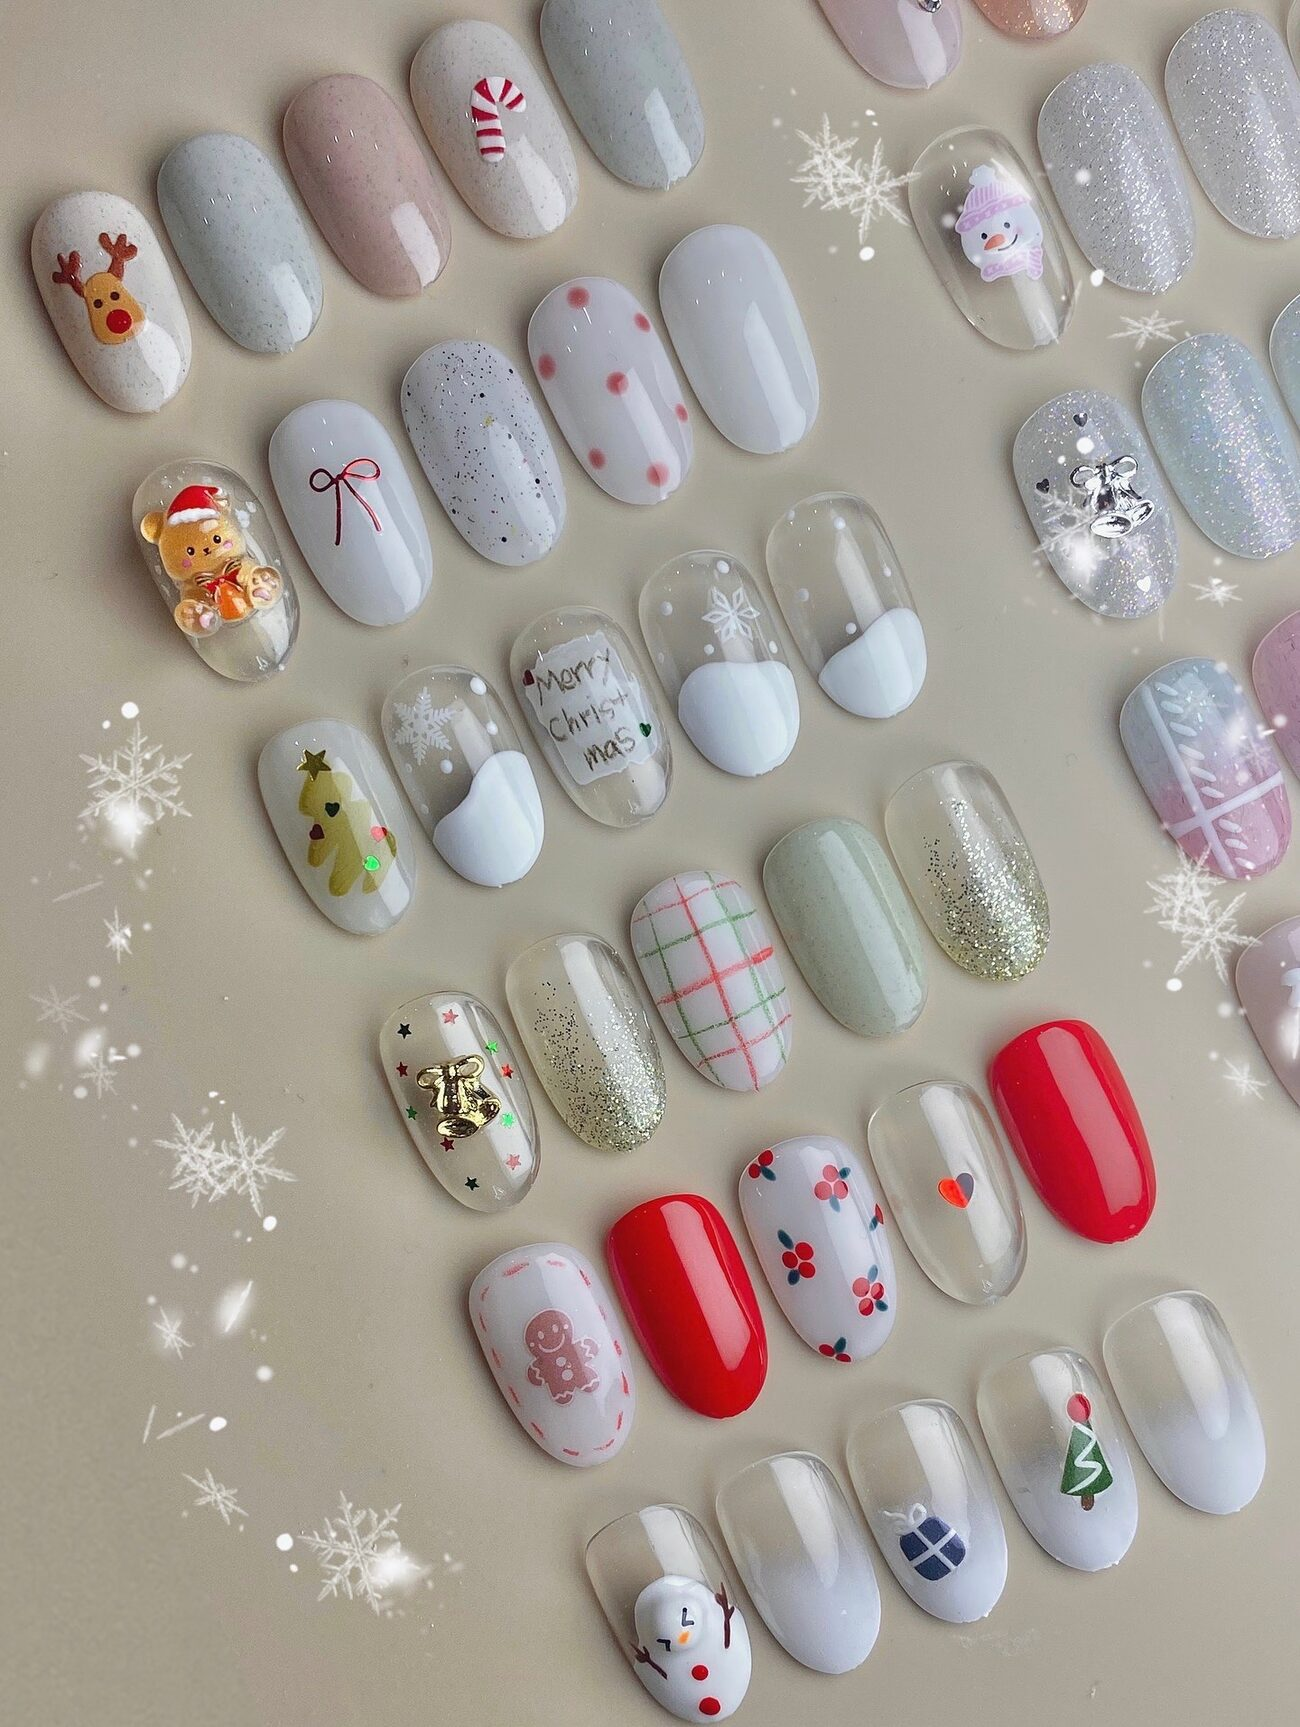
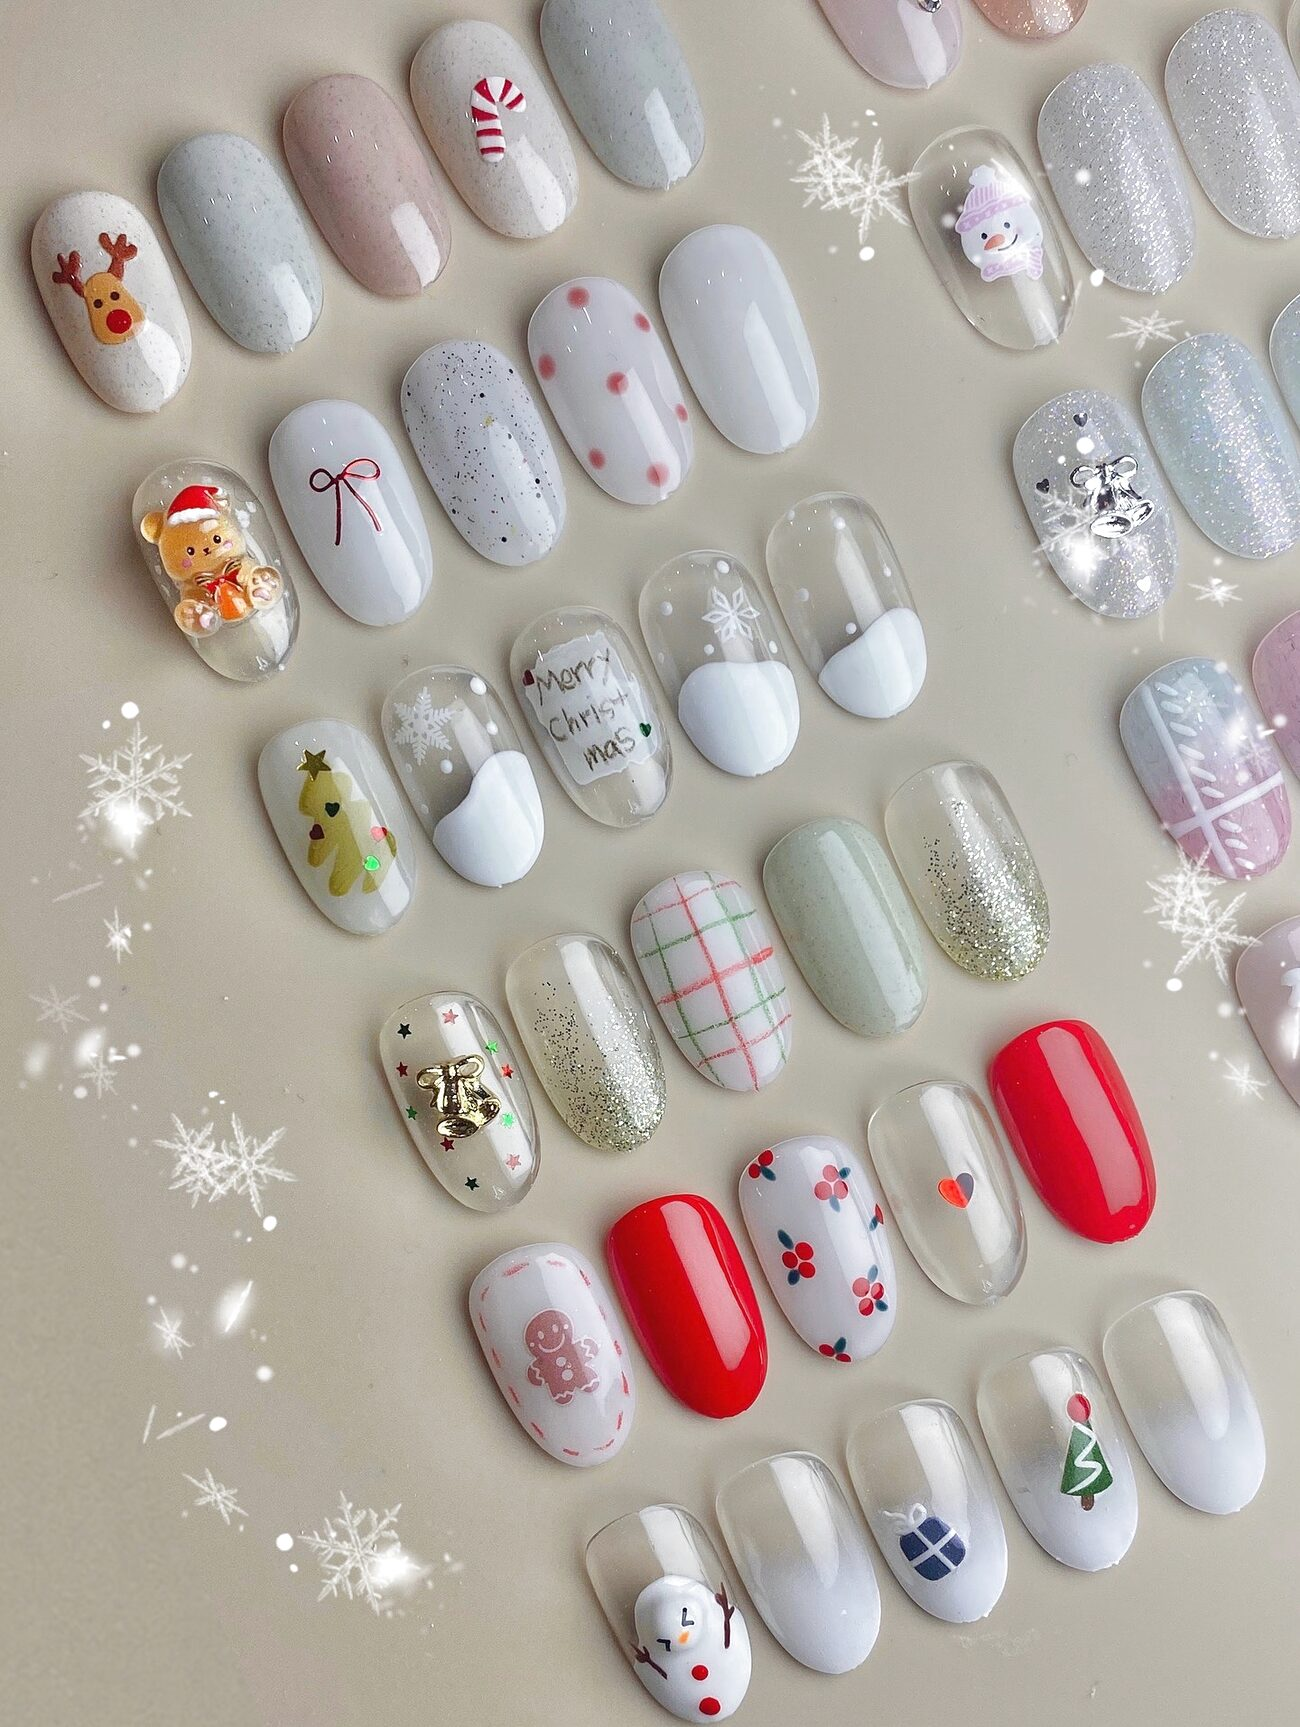
feat: 후기 섹션(네이버 리뷰 3건) 신설 + 아카이브 이미지 밝기 개선(opacity 제거+modulate)

diff --git a/index.html b/index.html
@@ -122,7 +122,7 @@ p{color:var(--ink-2)}
 /* 아카이브 밴드 */
 .band{position:relative;background:var(--ink);color:var(--paper);overflow:hidden}
 .band-img{position:relative;aspect-ratio:16/10;overflow:hidden}
-.band-img img{width:100%;height:100%;object-fit:cover;opacity:.82}
+.band-img img{width:100%;height:100%;object-fit:cover}
 .band-txt{padding:clamp(38px,6vw,72px) var(--pad)}
 .band-txt h2{color:var(--paper);margin:12px 0 14px}
 .band-txt p{color:#A79FAB;max-width:34em}
@@ -134,6 +134,18 @@ p{color:var(--ink-2)}
   grid-template-columns:auto 1fr;gap:16px;align-items:start;min-width:0}
 .care .no{font-family:var(--en);font-size:.78rem;letter-spacing:.14em;color:var(--plum);padding-top:4px}
 .care p{font-size:.94rem;color:var(--muted);margin-top:4px}
+
+/* 후기 */
+.rv-grid{display:grid;grid-template-columns:1fr;gap:16px}
+.rv-card{border:1px solid var(--line);background:var(--paper);padding:24px 22px;display:flex;flex-direction:column;min-width:0}
+.rv-stars{color:var(--plum);font-size:.9rem;letter-spacing:.08em;margin-bottom:12px}
+.rv-body{font-size:.98rem;line-height:1.75;color:var(--ink-2);flex:1}
+.rv-who{margin-top:16px;font-size:.82rem;color:var(--muted)}
+.rv-who b{color:var(--ink);font-weight:600}
+.rv-tags{display:flex;flex-wrap:wrap;gap:6px;margin-top:12px}
+.rv-tags span{font-size:.76rem;color:var(--plum-dk);background:var(--paper-2);padding:4px 10px;border-radius:2px}
+.rv-more{margin-top:26px;font-size:.9rem}
+.rv-more a{color:var(--plum);text-decoration:underline;text-underline-offset:3px}
 
 /* 정책 */
 .policy{background:var(--paper-2);border-top:1px solid var(--line);border-bottom:1px solid var(--line)}
@@ -204,6 +216,7 @@ footer .cr{border-top:1px solid #332C38;padding-top:20px;font-size:.78rem;color:
   .band{display:grid;grid-template-columns:minmax(0,1fr) minmax(0,1fr);align-items:center}
   .band-img{aspect-ratio:auto;height:100%;min-height:420px}
   .care{grid-template-columns:repeat(2,1fr);column-gap:48px}
+  .rv-grid{grid-template-columns:repeat(3,1fr)}
   .pol-grid{grid-template-columns:repeat(3,1fr)}
   .visit{grid-template-columns:minmax(0,1fr) minmax(0,1fr)}
   .ch{grid-template-columns:repeat(2,1fr)}
@@ -294,6 +307,7 @@ footer .cr{border-top:1px solid #332C38;padding-top:20px;font-size:.78rem;color:
       <a href="#about">About</a>
       <a href="#menu">Menu</a>
       <a href="#works">Works</a>
+      <a href="#reviews">Reviews</a>
       <a href="#visit">Visit</a>
     </nav>
     <a class="btn btn-p btn-sm" href="#visit">예약 문의</a>
@@ -436,6 +450,38 @@ footer .cr{border-top:1px solid #332C38;padding-top:20px;font-size:.78rem;color:
         <li><span class="no">03</span><div><h3>지난 아트도 살려서</h3><p>지난 시술 위에 새 아트 얹는 것도 돼요. 상태 봐서 조금 추가될 수 있고요.</p></div></li>
         <li><span class="no">04</span><div><h3>상한 손톱도 봐드려요</h3><p>연장 뜯겨서 상했거나 자꾸 들떠서 얇아진 손톱도 상담해요. 건강이랑 유지력 같이 챙겨요.</p></div></li>
       </ul>
+    </div>
+  </section>
+
+  <!-- 후기 -->
+  <section class="sec" id="reviews" style="background:var(--paper-2);border-top:1px solid var(--line)">
+    <div class="wrap">
+      <div class="sec-head">
+        <span class="lab">Reviews</span>
+        <h2>다녀가신 분들의 이야기</h2>
+        <p>네이버 방문자 리뷰 중 일부예요. 유지력, 쉐입, 편안한 분위기를 많이 말씀해 주세요.</p>
+      </div>
+      <div class="rv-grid">
+        <div class="rv-card">
+          <div class="rv-stars" aria-label="별점 5점">★★★★★</div>
+          <p class="rv-body">"결정장애인 제가 원하는 네일을 찰떡같이 잘 해주세요. 쉐입부터 유지력까지 최고인 샵이에요. 쉐입, 디자인, 유지력 모두 원하시면 으나수네일로 가보세요."</p>
+          <div class="rv-tags"><span>원하는 디자인</span><span>유지력이 좋아요</span><span>아트가 멋져요</span></div>
+          <p class="rv-who"><b>minngki</b> 님 · 회원권 고객</p>
+        </div>
+        <div class="rv-card">
+          <div class="rv-stars" aria-label="별점 5점">★★★★★</div>
+          <p class="rv-body">"으나수네일 다닌 지 벌써 네 번째예요. 손도 짱 빠르시고 쉐입 잡는 게 예술입니다. 제 추구미 스타일을 항상 잘 잡아 주세요."</p>
+          <div class="rv-tags"><span>원하는 디자인</span><span>시술이 꼼꼼해요</span><span>손이 빨라요</span></div>
+          <p class="rv-who"><b>yj0825</b> 님</p>
+        </div>
+        <div class="rv-card">
+          <div class="rv-stars" aria-label="별점 5점">★★★★★</div>
+          <p class="rv-body">"원컬러 하려다 귀여운 아트 보자마자 반했어요. 오랜만에 방문해도 어제 온 것 같은 편안함이 있고요. 으나수 원장님 실력은 말할 것도 없어요."</p>
+          <div class="rv-tags"><span>디자인이 다양해요</span><span>유지력이 좋아요</span><span>시술이 꼼꼼해요</span></div>
+          <p class="rv-who"><b>설기언니</b> 님</p>
+        </div>
+      </div>
+      <p class="rv-more"><a href="https://m.place.naver.com/nailshop/1265687818/review/visitor" target="_blank" rel="noopener">네이버 방문자 리뷰 186개 모두 보기 →</a></p>
     </div>
   </section>
 